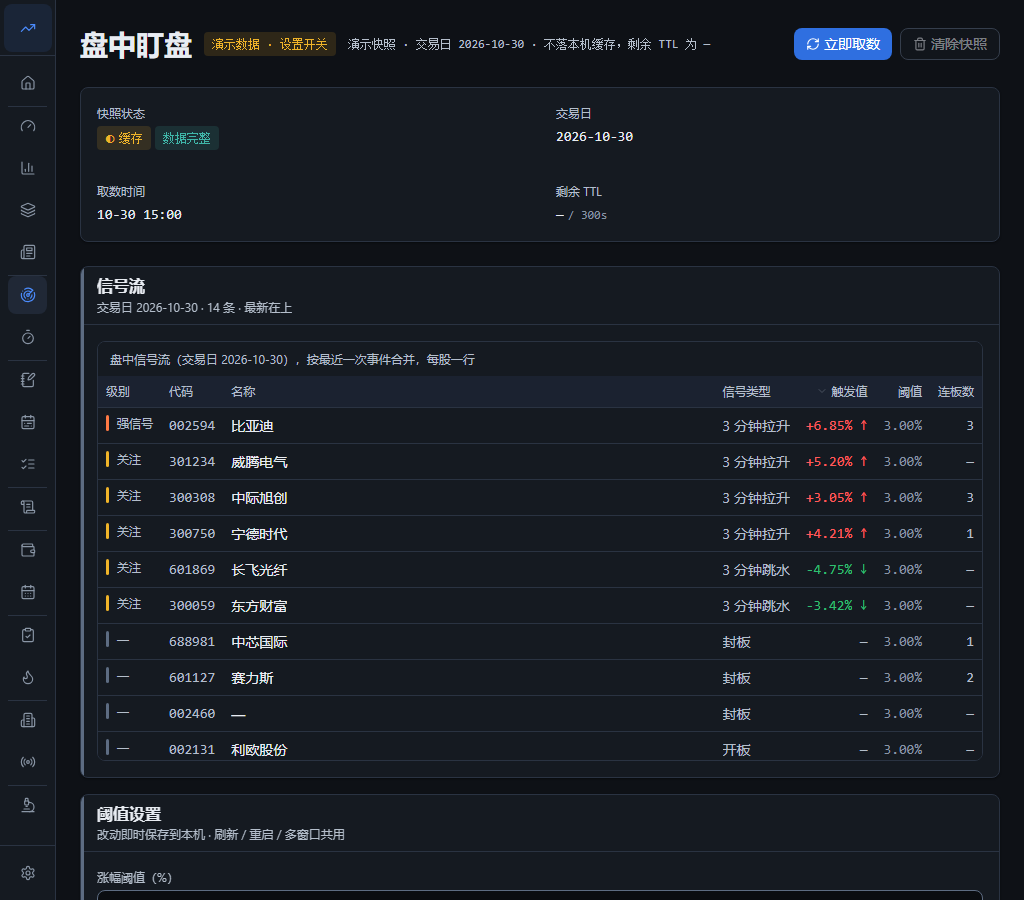
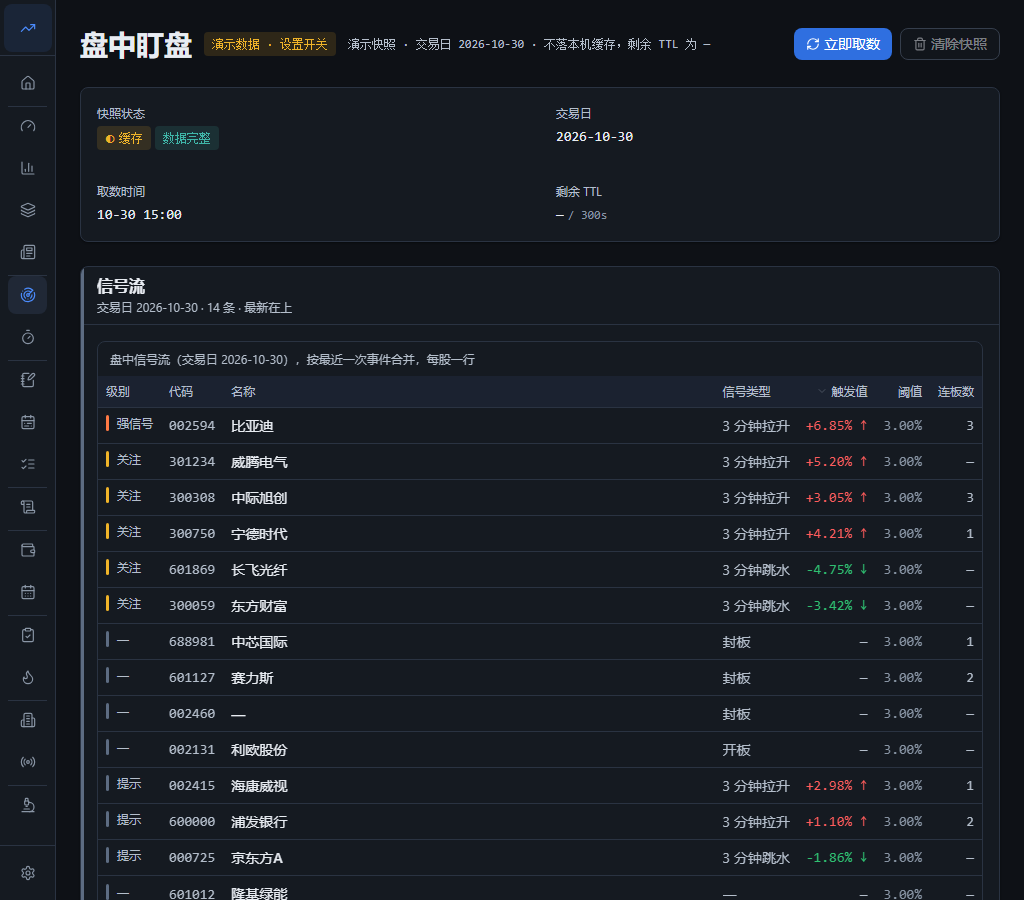
fix(watch): 信号流表高改用 §7.3 具名档位 calc(100vh - 280px)
QUOT-336 跟进：420px 字面量下 14 行信号要滚出折叠才能看全，
换成规范里已具名的唯一 calc 档，1440×900 取证 14 行全进首屏。
1024 档 L0 卡换行使表体上沿实测 341px > 280px，表底出屏 13px，
按边界不自调那个 280，只补一条口径回归断言锁住档位本身。

diff --git a/frontend/tests/quota-334-home-watch.test.tsx b/frontend/tests/quota-334-home-watch.test.tsx
@@ -176,6 +176,18 @@ describe('盯盘演示源', () => {
     expect(unnamedRow?.textContent).toContain('—')
   })
 
+  /**
+   * 表高口径（UI-SPEC §7.3）：具名值 `calc(100vh - 280px)`，不是 `420px` 字面量。
+   * jsdom 不排版，所以这里锁的是口径本身——14 行是否真进首屏由 1440×900 取证图与探针实测负责。
+   */
+  it('信号流表高走 §7.3 具名档位，不回落 420px 字面量', async () => {
+    renderAt('/watch?demo=1')
+    await waitFor(() => expect(dataRowCount()).toBeGreaterThanOrEqual(12))
+
+    const scroller = document.querySelector('table')?.closest('.overflow-auto') as HTMLElement | null
+    expect(scroller?.style.maxHeight).toBe('calc(100vh - 280px)')
+  })
+
   it('演示态本机没有回放缓存：剩余 TTL 如实「—」，且不写 watch_snapshot 分片', async () => {
     renderAt('/watch?demo=1')
     await waitFor(() => expect(dataRowCount()).toBeGreaterThanOrEqual(12))

diff --git a/frontend/src/screens/WatchScreen.tsx b/frontend/src/screens/WatchScreen.tsx
@@ -494,7 +494,7 @@ export default function WatchScreen() {
               rowKey={(row) => row.code}
               caption={`盘中信号流（${tradeDateLabel(viewTradeDate, now)}），按最近一次事件合并，每股一行`}
               density="compact"
-              maxHeight="420px"
+              maxHeight="calc(100vh - 280px)"
               empty={
                 <EmptyState
                   compact
